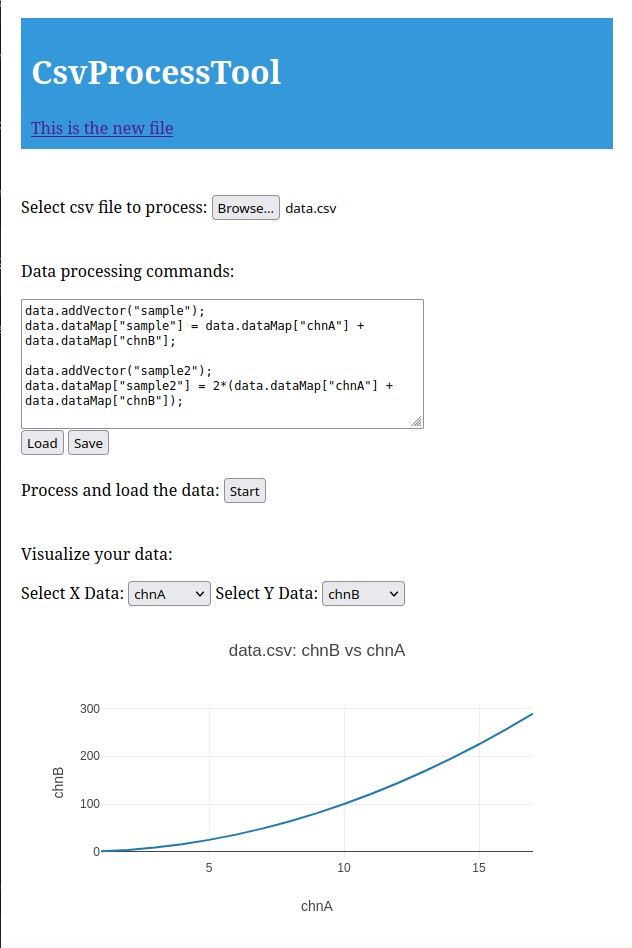
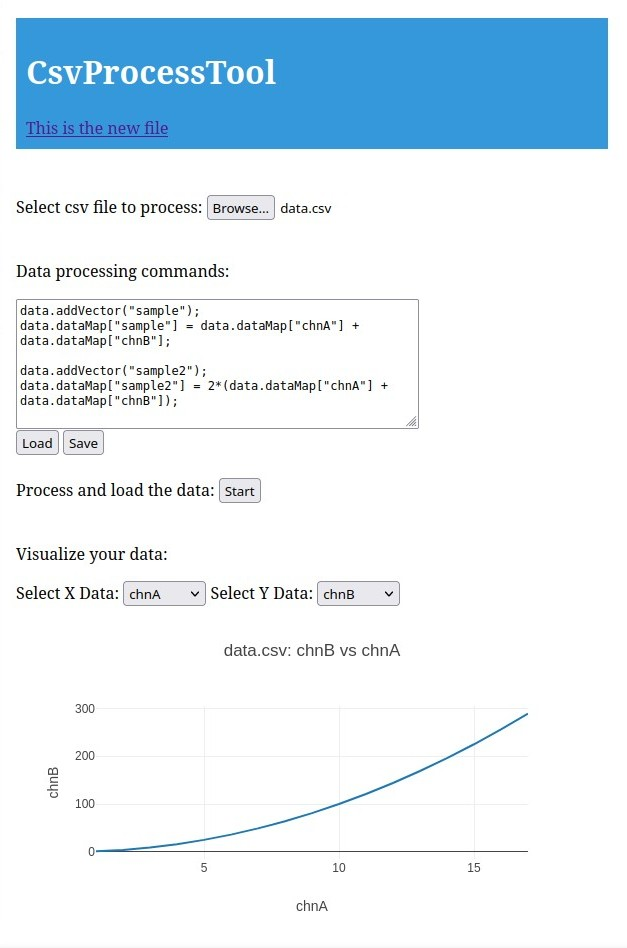
Readme update

diff --git a/readme.md b/readme.md
@@ -9,4 +9,6 @@ There are some bash files in the config folder to help the initial setup of an a
 
 IMPORTANT: The tool is intended for local use only. It processes the data by modifying and re-compiling C++ scripts which is a security vulnerability which would allow atackers to run malicious code.
 
-[screenshot](./img/screenshot.jpg)
+<p align="center">
+  <img src="./img/screenshot.jpg" width="700">
+</p>
